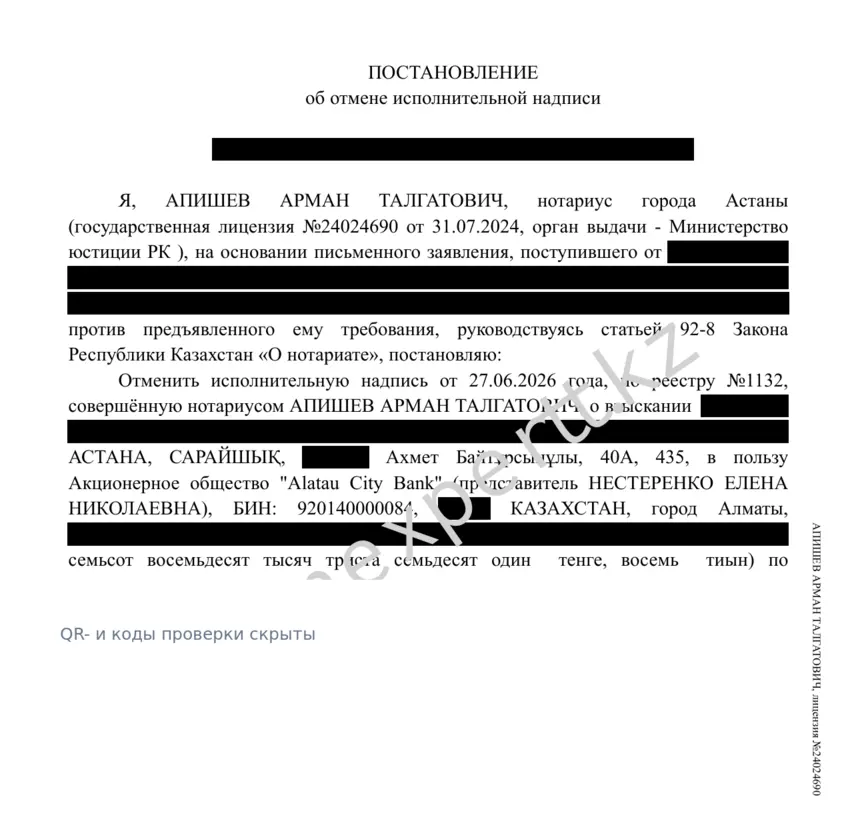
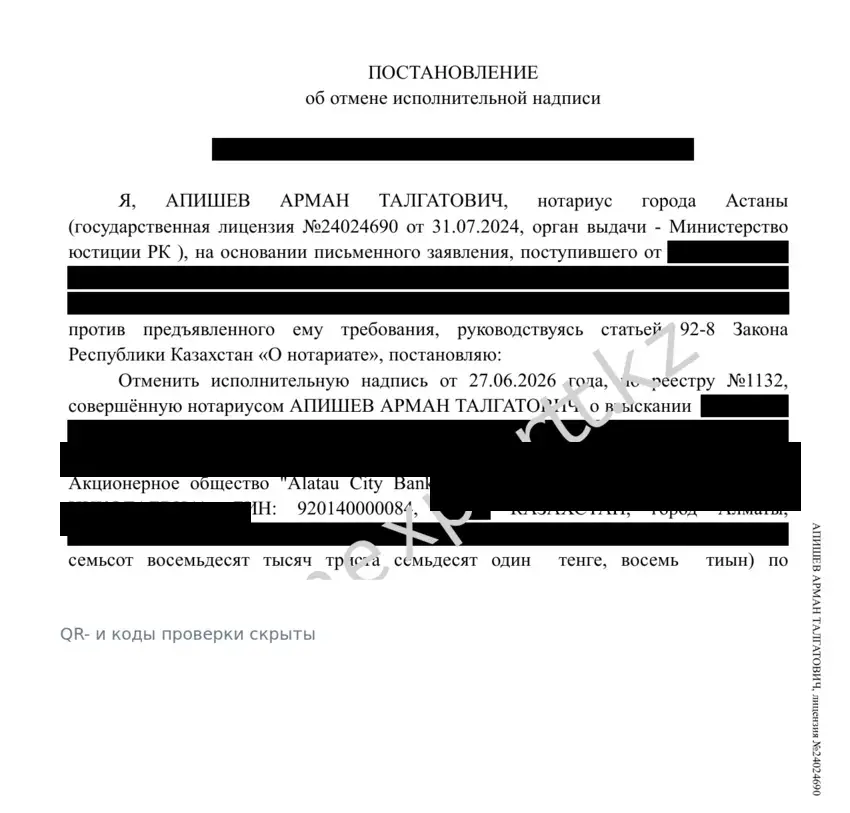
Redact remaining client identifiers

Changed region(s): [[0.0612, 0.5228, 0.9482, 0.6458], [0.0612, 0.615, 0.3059, 0.6765]]

diff --git a/public/rezultaty.html b/public/rezultaty.html
@@ -326,7 +326,7 @@
         <ul class="rez-featured-facts">
           <li><i class="bi bi-check-circle-fill"></i><span>4 официальных постановления нотариусов</span></li>
           <li><i class="bi bi-check-circle-fill"></i><span>Общая сумма: 20 861 599,33 ₸</span></li>
-          <li><i class="bi bi-shield-lock-fill"></i><span>Персональные данные, QR- и коды проверки скрыты</span></li>
+          <li><i class="bi bi-shield-lock-fill"></i><span>Данные клиентов, QR- и коды проверки скрыты</span></li>
         </ul>
         <p class="rez-privacy-note"><i class="bi bi-info-circle"></i> Отмена исполнительной надписи прекращает взыскание по этому исполнительному документу; она не означает автоматического списания задолженности.</p>
       </div>

diff --git a/public/index.html b/public/index.html
@@ -484,7 +484,7 @@
         <ul class="ze-home-result__facts">
           <li><i class="bi bi-check-circle-fill"></i><span>4 официальных постановления нотариусов</span></li>
           <li><i class="bi bi-check-circle-fill"></i><span>Общая сумма — 20 861 599,33 ₸</span></li>
-          <li><i class="bi bi-shield-lock-fill"></i><span>Персональные данные, QR- и коды проверки скрыты</span></li>
+          <li><i class="bi bi-shield-lock-fill"></i><span>Данные клиентов, QR- и коды проверки скрыты</span></li>
         </ul>
         <div class="ze-home-result__actions">
           <a class="landing-btn landing-btn-primary" href="/rezultaty">Смотреть все результаты</a>
